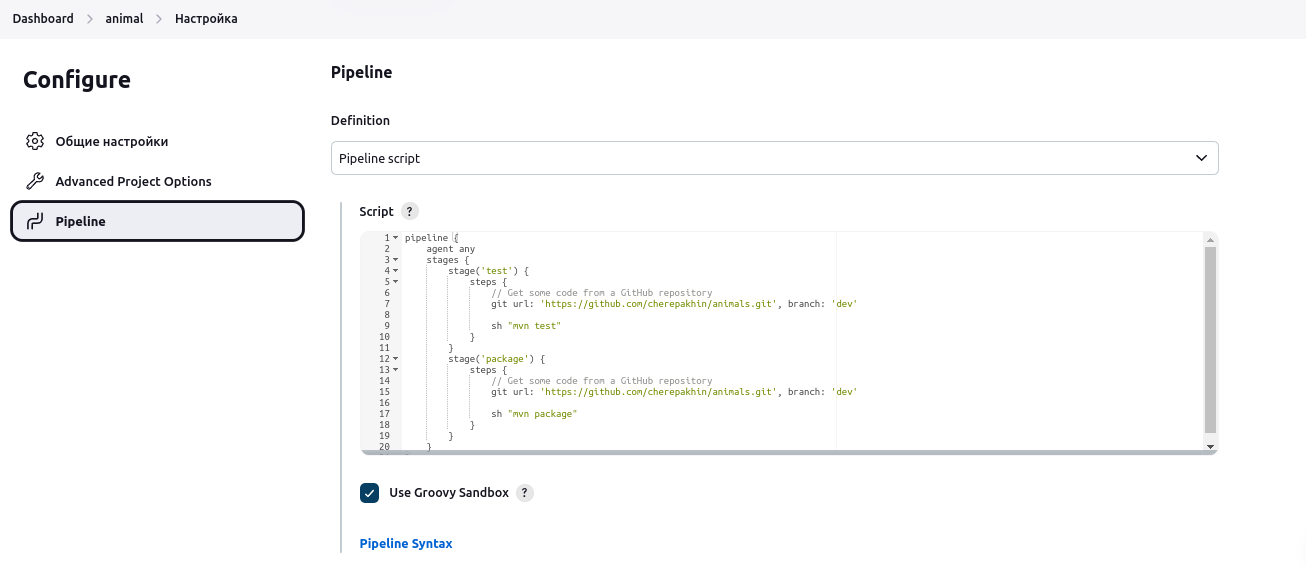
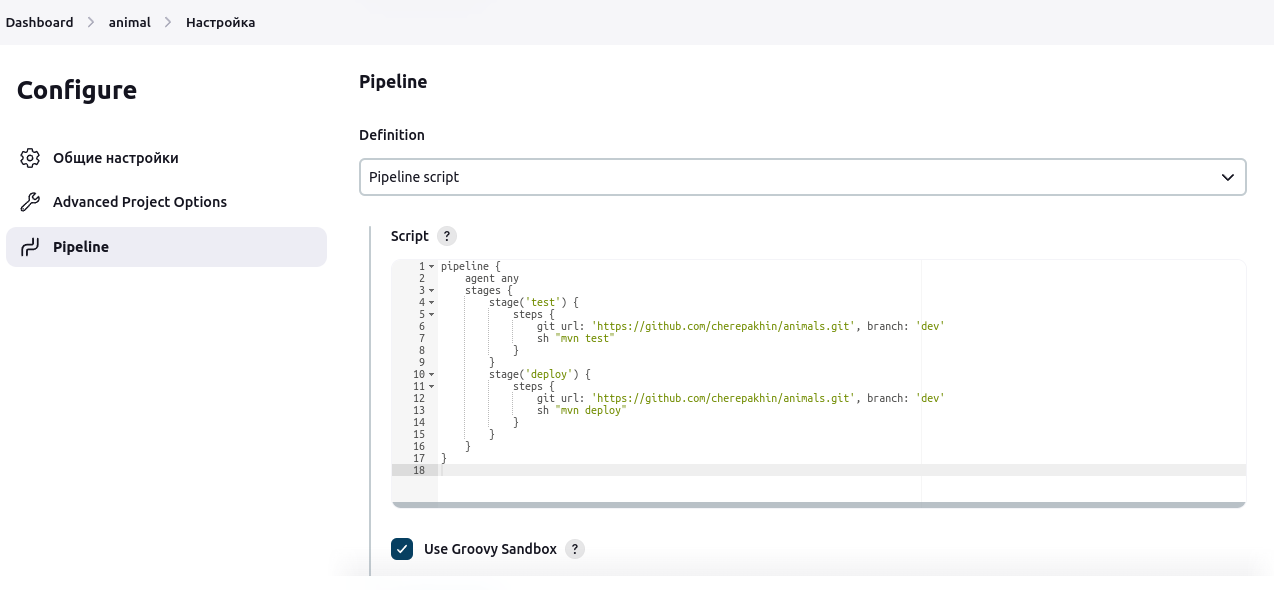
изненил картинку jenkins_pipeline.png с правильным этапом deploy

diff --git a/test-integration-junit/jenkins_nexus_cicd.html b/test-integration-junit/jenkins_nexus_cicd.html
@@ -108,18 +108,14 @@ pipeline {
     stages {
         stage('test') {
             steps {
-                // Get some code from a GitHub repository
                 git url: 'https://github.com/cherepakhin/animals.git', branch: 'dev'
-
                 sh "mvn test"
             }
         }
-        stage('package') {
+        stage('deploy') {
             steps {
-                // Get some code from a GitHub repository
                 git url: 'https://github.com/cherepakhin/animals.git', branch: 'dev'
-
-                sh "mvn package"
+                sh "mvn deploy"
             }
         }
     }
